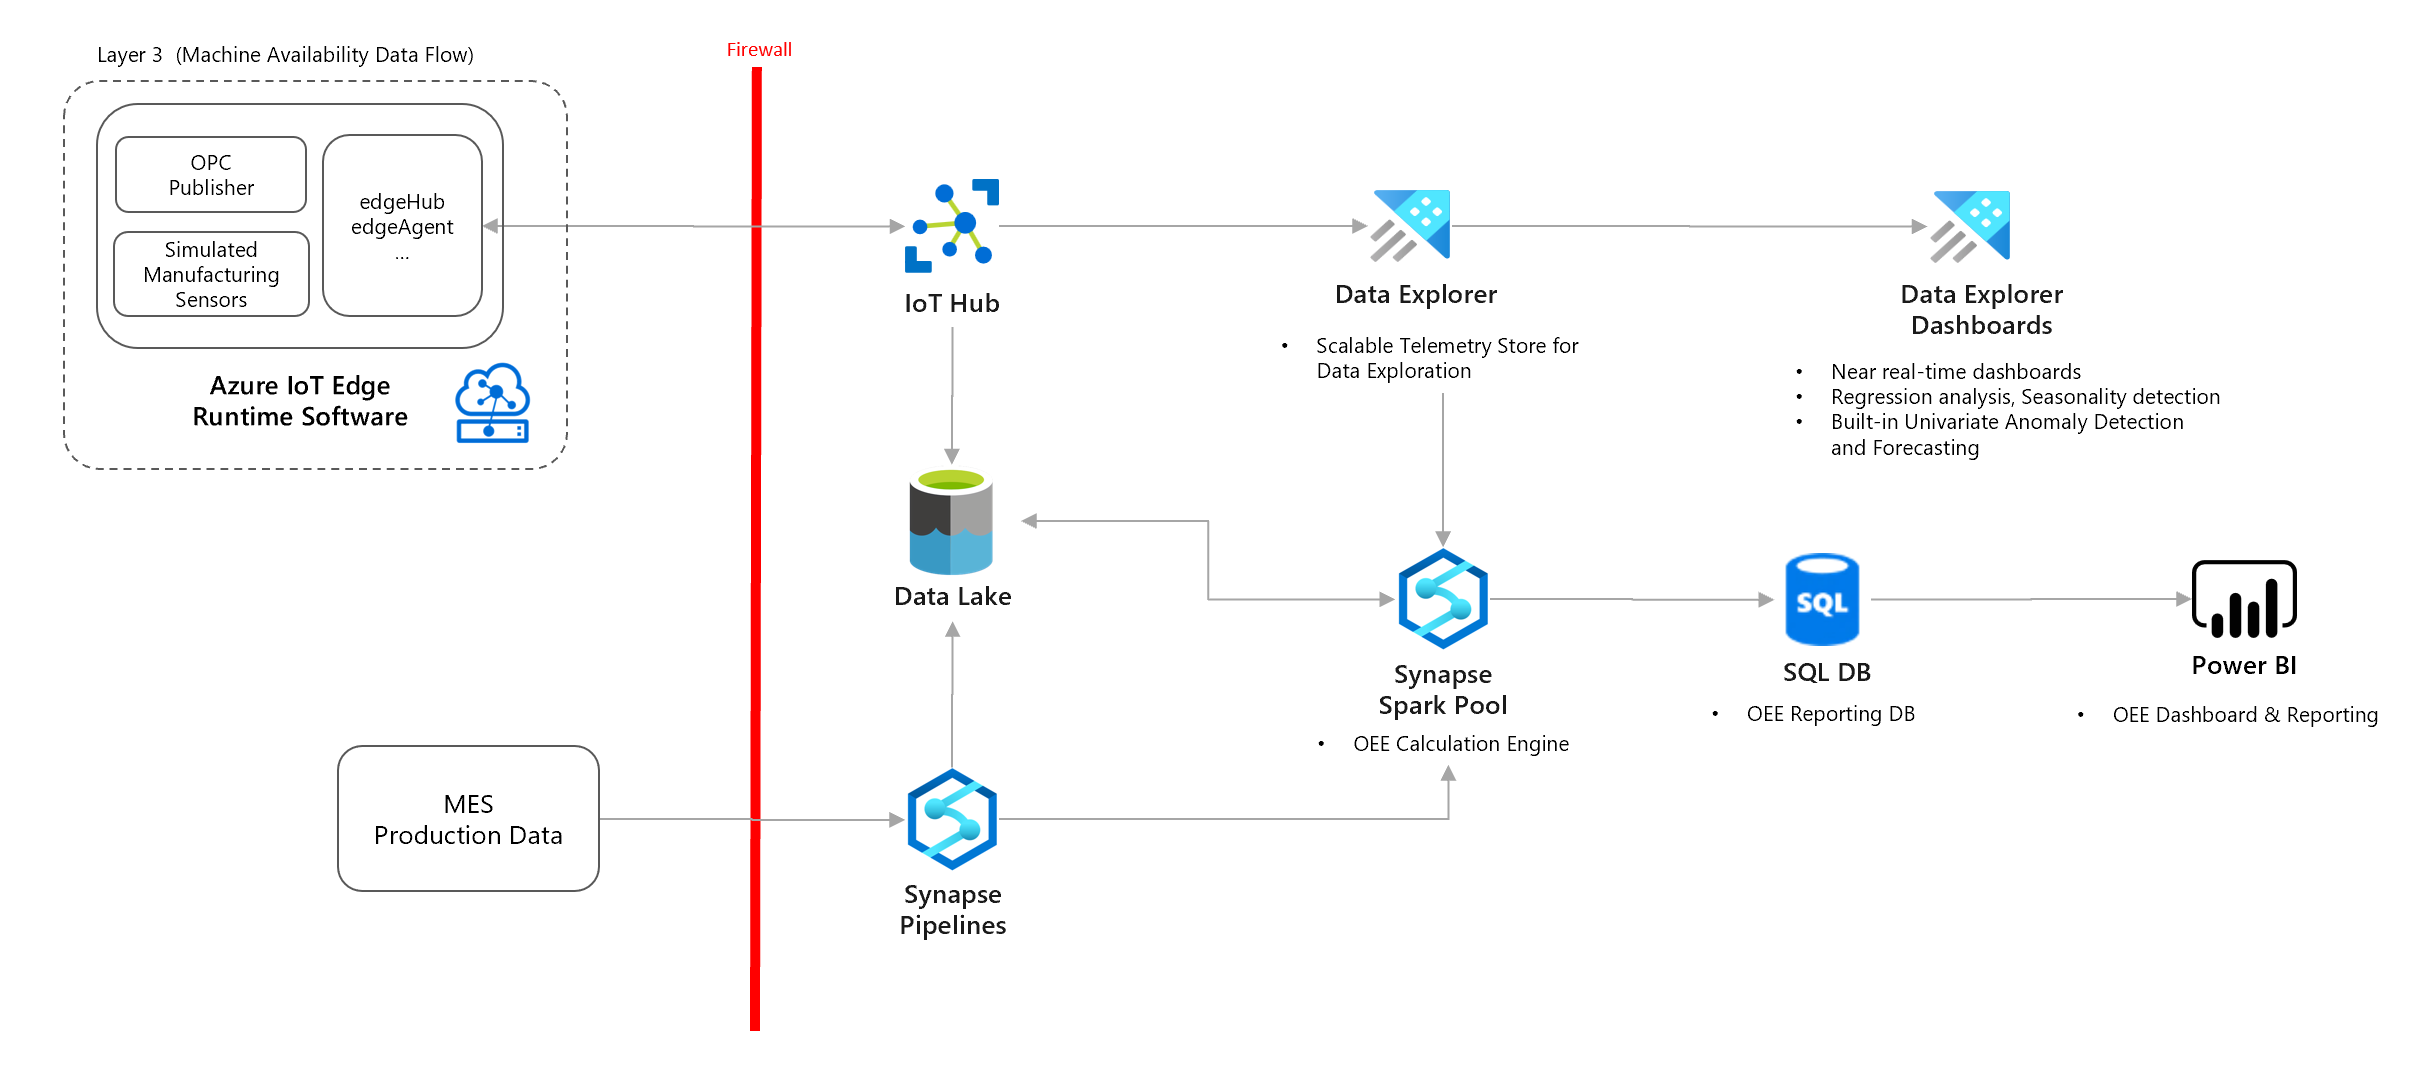
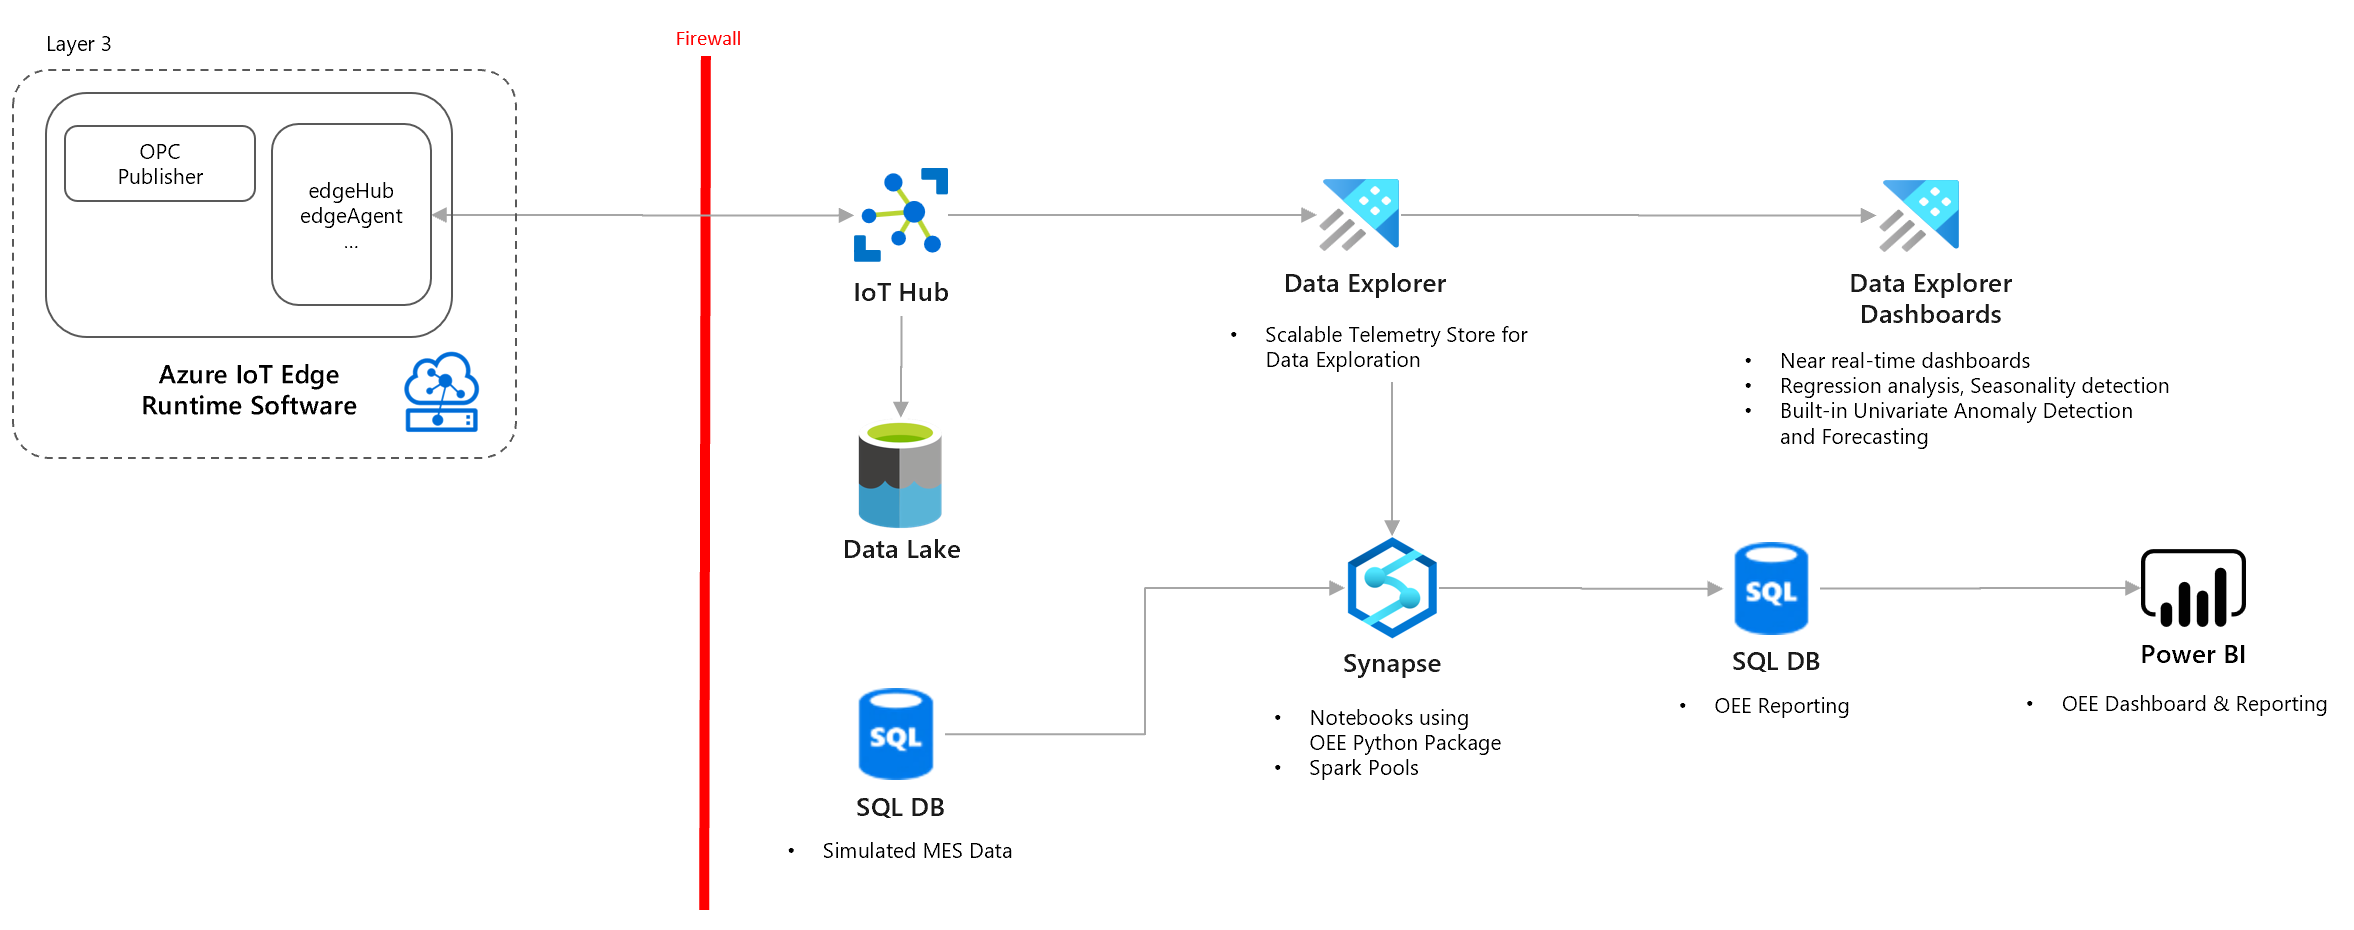
added pbi report for oee

diff --git a/3_OEECalculationEngine/README.md b/3_OEECalculationEngine/README.md
@@ -12,13 +12,13 @@ Goal of this sample is to acceleratre deployment of [Industrial IoT Transparency
 
 - You have [Operational Visibility](../2_OperationalVisibility/README.md) sample working.
 
-## Setup Sample MES Database
+## Setup SQL Database
 
 - Create a [Single SQL Database](https://docs.microsoft.com/en-us/azure/azure-sql/database/single-database-create-quickstart?view=azuresql&tabs=azure-portal)
 
     - Open `Networking` tab and make sure `Allow Azure services and resources to access this server`  is (checked)
 
-- Run the [sqldb/mes.sql](sqldb/mes.sql) script to create the tables and sample data
+- Run the [sqldb/mes-reporting.sql](sqldb/mes-reporting.sql) script to create the MES and OEE Reporting tables, along with some sample data
 
 ## Setup Synapse Workspace
 
@@ -57,11 +57,16 @@ Goal of this sample is to acceleratre deployment of [Industrial IoT Transparency
 
 ## Visualize OEE in Power BI
 
-- *In Progress...*
+- Open [powerbi/oee.pbix](powerbi/oee.pbix) file and change the `Data Source settings` to connect with the SQL Database created above.
+
+    <img src="../images/oee-pbi-1.png"  height="70%" width="70%">
+
+    <img src="../images/oee-pbi-2.png"  height="70%" width="70%">
+
 
 ## Additional Resources 
 
-- Build package
+- Update and ReBuild package
     - `cd package`
     - `pip install wheel setuptools`
     - `python setup.py bdist_wheel`
